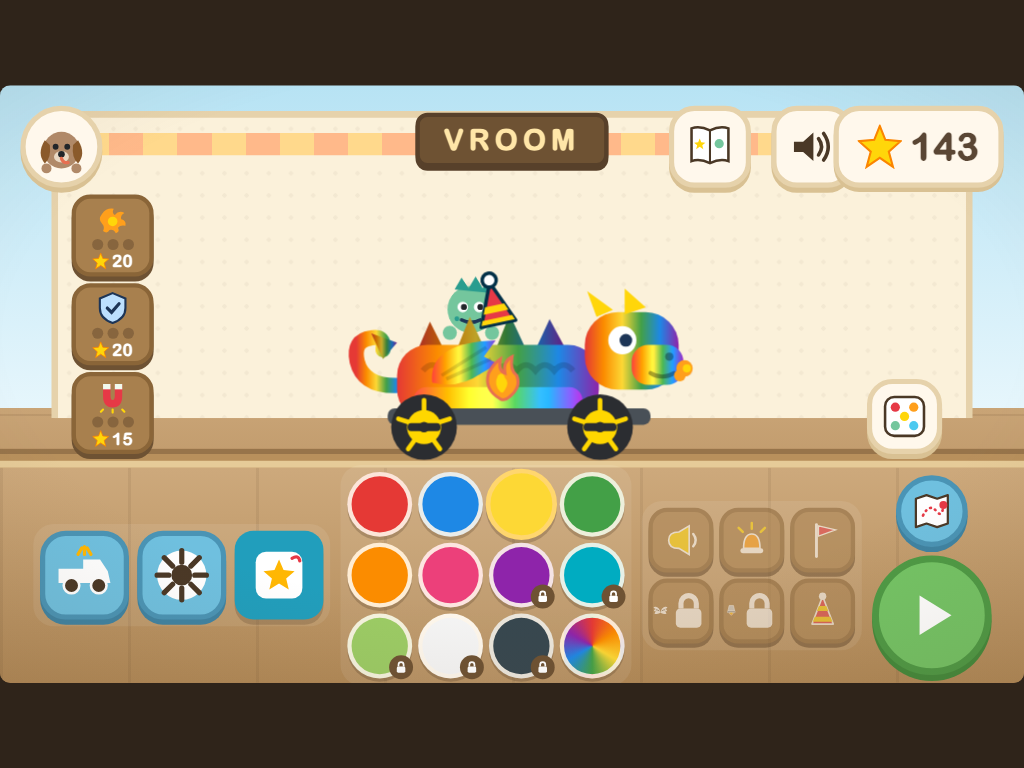
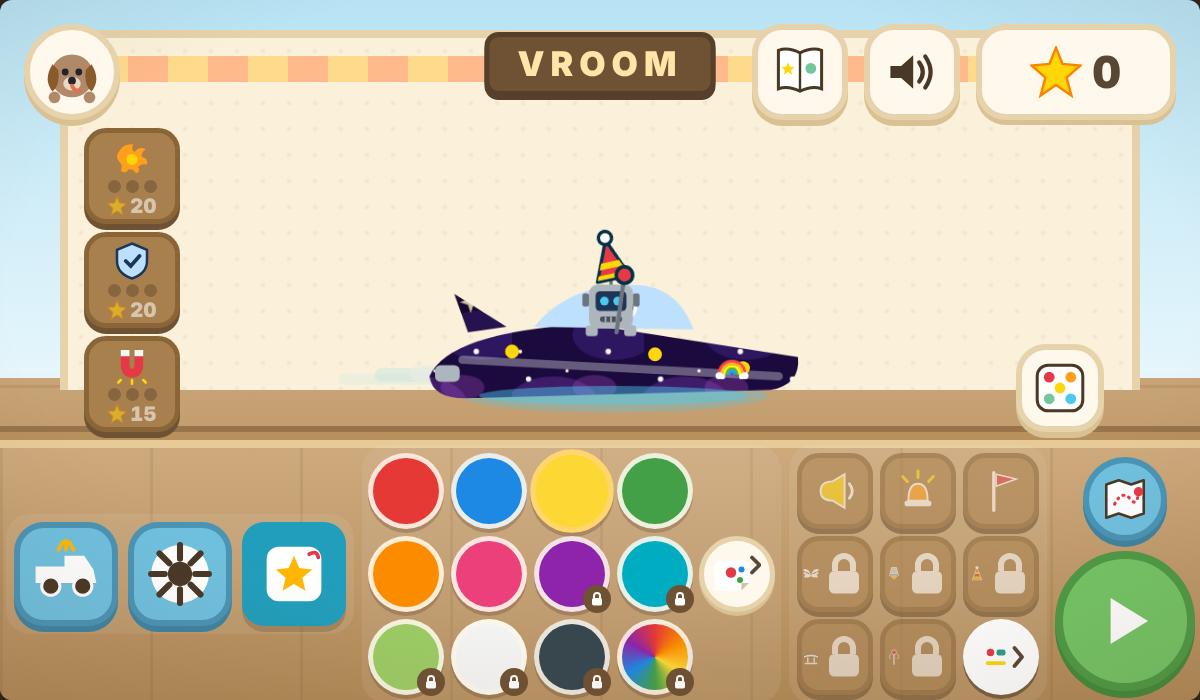
docs: v12 — 12 worlds, 23 bodies, pattern paints, anchored accessories
Claude-Session: https://claude.ai/code/session_016ck1aPGLVyXfjAcF2qTzon

diff --git a/README.md b/README.md
@@ -5,7 +5,7 @@ works offline, made for an iPad in a car seat.
 
 **Play it: https://zacker3310.github.io/vroom/**
 
-![The garage: a rainbow dragon car with gold wheels, a flame decal, a party hat, and a dino buddy riding along](docs/garage.png)
+![The garage: the 1000-star hover ship in galaxy paint with a robot buddy in a party hat](docs/garage.png)
 
 ## The rules it was built on
 
@@ -16,9 +16,14 @@ works offline, made for an iPad in a car seat.
 
 ## What's inside
 
-**The garage.** Build your ride from 15 bodies (dump truck to dragon to royal carriage),
-8 wheel sets, 12 paints including rainbow, flank decals, and toggle extras like wings and
-a rocket booster. Locked parts show in full color with a price tag: collect stars, tap, own it.
+**The garage.** Build your ride from 23 bodies (dump truck to dragon to pirate ship to
+T-rex to a hovering spaceship with no wheels at all), 13 wheel sets (monster, flower, donut,
+lava, crystal...), 23 paints (12 colors plus racing stripes, flames, polka dots, galaxy, gold
+chrome and more on a second swatch page), 9 flank decals, and 10 toggle extras (wings, booster,
+party hat, spoiler, antenna, surfboard rack, bubble machine...). Every accessory bolts onto
+each body at a tuned anchor point: the buddy rides in the dump bed, peeks out of the rocket's
+porthole, sits inside the UFO dome; the hat jumps to the buddy's head. Tap a part button to
+cycle forward, hold it to cycle back; a dot row shows where you are. Locked parts show in full color with a price tag: collect stars, tap, own it.
 Upgrade the engine, shield, and star magnet at the workbench. Fix crash damage with the
 wrench. Wash off real mud with your finger in the wash bay. A magic dice button builds
 you a surprise.
@@ -37,18 +42,24 @@ time medal.
 
 ![Space world: driving the moon road under a starfield with headlights on](docs/space.png)
 
-**Eight worlds, eighty levels.** Construction, sunset, night, rain, snow, desert, beach,
-and space, each a place: its own roadside (cranes and silos, barns and windmills, a
+![Deep Sea: a glass tunnel on the seabed under a whale-bone arch, dolphins overhead](docs/sea.png)
+
+![Sky Kingdom: the cloud causeway with floating castles under a rainbow](docs/sky.png)
+
+**Twelve worlds, 120 levels.** Construction, sunset, night, rain, snow, desert, beach,
+space, volcano, candy land, deep sea and sky kingdom, each a place: its own roadside (cranes and silos, barns and windmills, a
 lighthouse and campfires, lit city blocks, ski lodges and igloos, mesas and pueblos,
 lifeguard towers and surf shacks, habitat domes and moon buggies), a structure you drive
 under (scaffold bridge, covered bridge, string lights, sign gantry, ice arch, canyon arch,
 bunting arch, airlock ring), a horizon landmark, its own weather, hazards, hills, start
 jingle, ambience, and star-chime scale. Things happen along the way: birds cross, an owl
 hoots, lightning flashes and a rainbow follows, a snowball rolls by, a UFO beams down a
-bonus star, a whale spouts, a crane swings a girder overhead. Space has low gravity.
+bonus star, a whale spouts, a crane swings a girder overhead, a volcano burps smoke rings,
+sprinkles fall, dolphins leap over the seabed tunnel, storks and airships cross the sky. Space
+has low gravity; the deep sea and the sky are floaty too. Levels 81-120 get harder, not longer.
 The map is a winding road of level nodes; beating a world's last level unlocks the next
 and pays a trophy bonus. A free drive mode tours all eight worlds forever with no finish
-line and no timer. And beating all eighty unlocks the Victory Parade: a rainbow-road
+line and no timer. And beating all 120 unlocks the Victory Parade: a rainbow-road
 finale with fireworks, every buddy you've found cheering from the roadside, and a
 champion's jackpot at the trophy arch.
 
@@ -56,7 +67,7 @@ champion's jackpot at the trophy arch.
 
 ![The world map: a winding path of level nodes across a meadow](docs/map.png)
 
-**The album.** Six buddy critters hide inside capsules and ride in the cab when found.
+**The album.** Ten buddy critters hide inside capsules and ride in the cab when found.
 Sticker badges mark firsts (first jump, first clean run, first S medal...). Every finish
 saves a polaroid of that exact build. All of it lives in a scrapbook.
 
@@ -97,7 +108,7 @@ saves a polaroid of that exact build. All of it lives in a scrapbook.
 - The QR code is produced by a hand-rolled encoder (byte mode, ECC level L, versions
   1 to 10 with multi-block Reed-Solomon interleaving over GF(256)) verified byte-exact
   against a real decoder.
-- `tests/` holds thirteen Playwright suites with 191 checks covering the economy, physics,
+- `tests/` holds fifteen Playwright suites with 242 checks covering the economy, physics,
   worlds, album, profiles, save codes, and the wash. See `tests/README.md` to run them.
 - Built with Claude Code in an agentic build loop: design and content generated by
   parallel subagents, every round audited by an adversarial reviewer with fix authority

diff --git a/TASKS.md b/TASKS.md
@@ -57,6 +57,14 @@
 - [x] T11.5 (agent): adversarial audit of all 80 levels (240 screenshots): owl/whale/snowball events redrawn, arches clear of ramp lips, landmarks drawn once; `buildCourse` rewritten with per-world road character (WORLD_ROAD: highway, switchback pass, drag strips, coast, moon chicanes) and a 10-shape menu so no level after L2 is straight and no neighbours match; fairness bots (greedy star-seeker + center-lane 'lazy toddler') drive all 80 levels: moon flights get a float arc and 950/1850 ramp tails, walls open within one lane of the kid, 700-unit runways, fills never trap a star trail; finales always end in a star shower. Suite `fairness-check.cjs` (9). 13 suites, 191/191.
 - [x] T11.6-11.7: HUD row fills the width; garage top row spacing with fixed-width wallets.
 
+## v12 (2026-10-07, user-directed: "go bonkers")
+
+- [x] T12.0: plumbing for 12 worlds / 120 levels (WORLD_META, derived MAX_LEVEL/PARADE_LEVEL, 12 map tabs, length cap at L80), save-code format v3 (count-prefixed catalogs, build travels, v1/v2 decode kept), pack anchors.
+- [x] T12.1 (agent): accessory anchor contract — per-body `anchors` in both views, all 15 bodies hand-tuned from contact sheets.
+- [x] T12.2 (agents): worlds 9 Volcano, 10 Candy Land, 11 Deep Sea, 12 Sky Kingdom — themes, palettes, scenery pools, arches, landmarks, weather, 2 hazards each (timed geysers, rolling donuts, bobbing jellyfish, lane-hopping crab king and kites, thunderclouds), road character, beats, jingles, ambience, star scales, events; flight length scales with gravity.
+- [x] T12.3 (agent): 11 pattern paints as SVG defs in both views, two-page swatch flipper; suite paint-check (22).
+- [x] T12.4 (agent): shop pack — 8 bodies (hover 1000 with no wheels + glow + trail, bulldozer, school bus, ambulance, submarine, pirate, dino, unicorn), 5 wheels, 4 extras, 4 buddies, 3 decals; hold-to-cycle-back + dot indicator; legacy decoder sliced to v2 catalog sizes; suite shop-check (21). 15 suites, 242/242.
+
 ## Backlog (v2 candidates, from kid-testing)
 
 - [ ] T2.1: Real-device iOS pass: audio unlock, multi-touch, add-to-home-screen icon.

diff --git a/SPEC.md b/SPEC.md
@@ -33,8 +33,8 @@ Any owned combination is valid. Vehicle preview updates live with bounce + pop.
 
 ## Scene 2: World map (v5)
 
-80 levels across 8 themed worlds of 10: construction day, sunset, night, rain,
-snow, desert, beach, space. A row of 8 themed world tabs (locked until the
+120 levels across 12 themed worlds of 10: construction day, sunset, night, rain,
+snow, desert, beach, space, volcano, candy land, deep sea, sky kingdom (v12). A row of 8 themed world tabs (locked until the
 previous world's last level is beaten) selects a page of 10 big level buttons.
 Finished level N unlocks N+1. Locked = gray + padlock. Done = number + 1-3 star
 rating + S/A/B/C medal badge. Free-drive button up top. House returns to garage.
